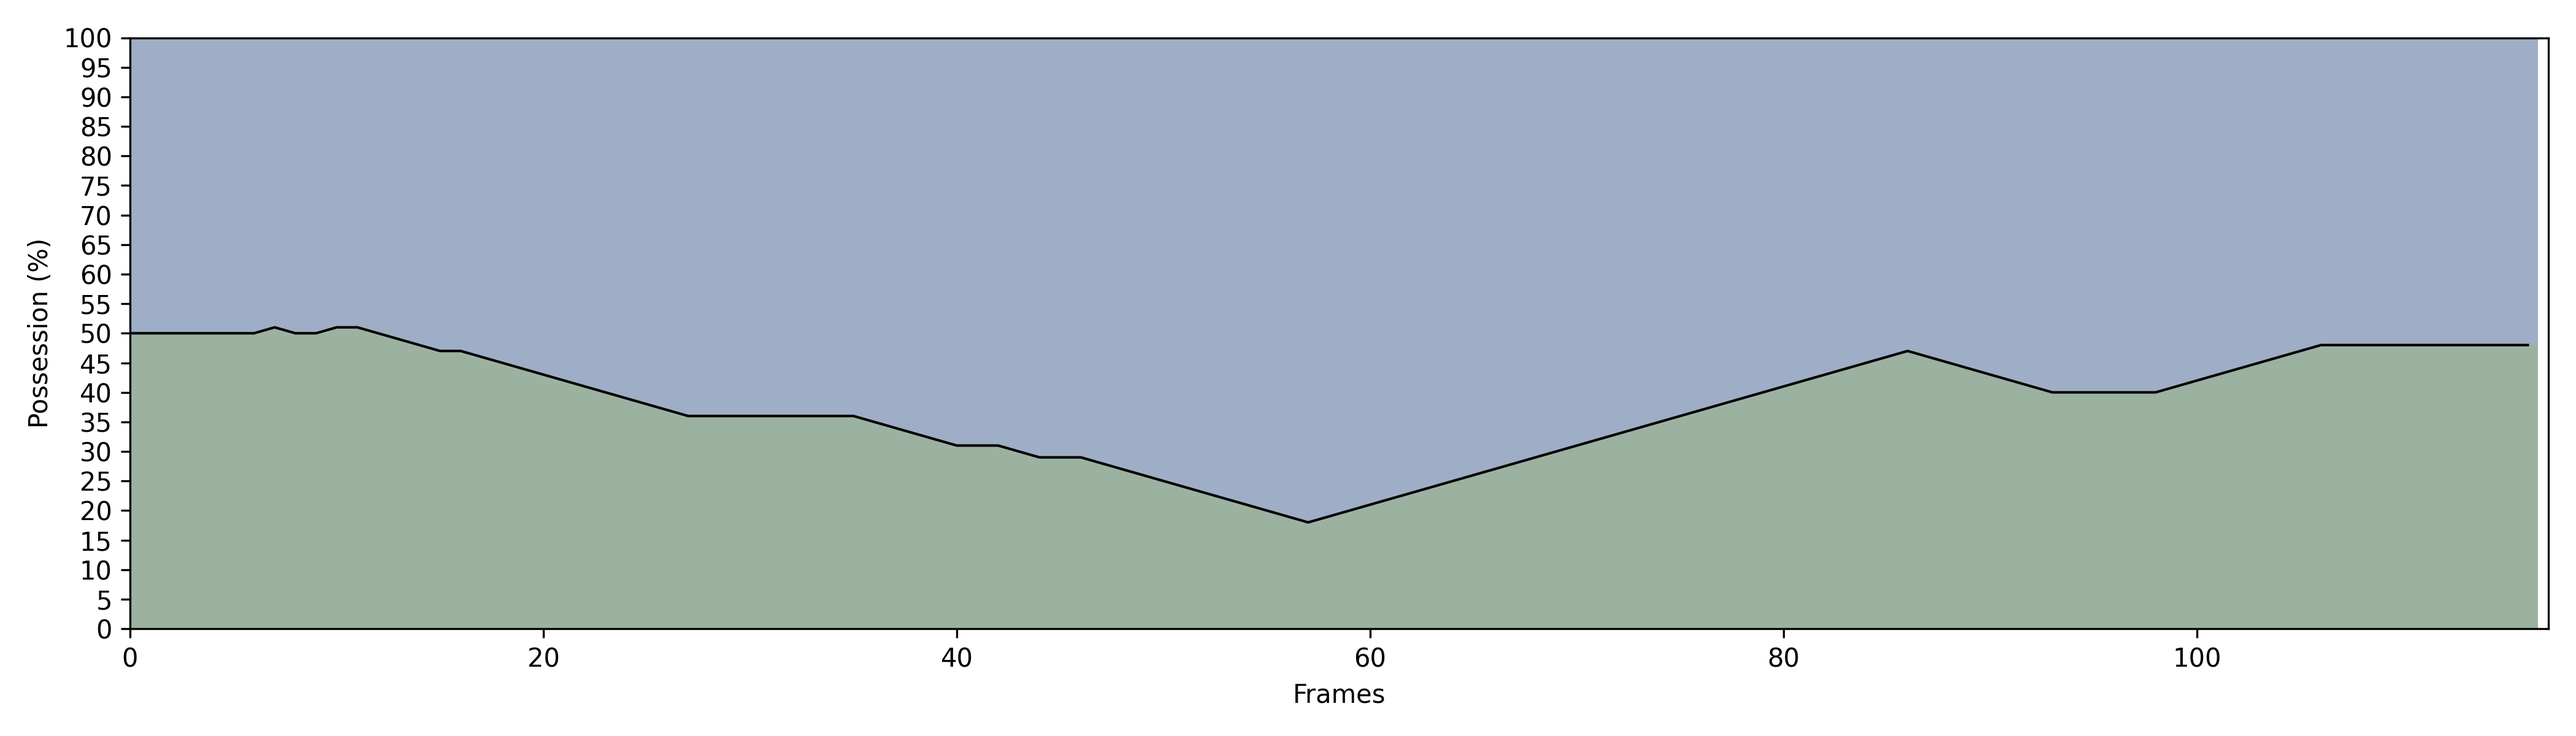
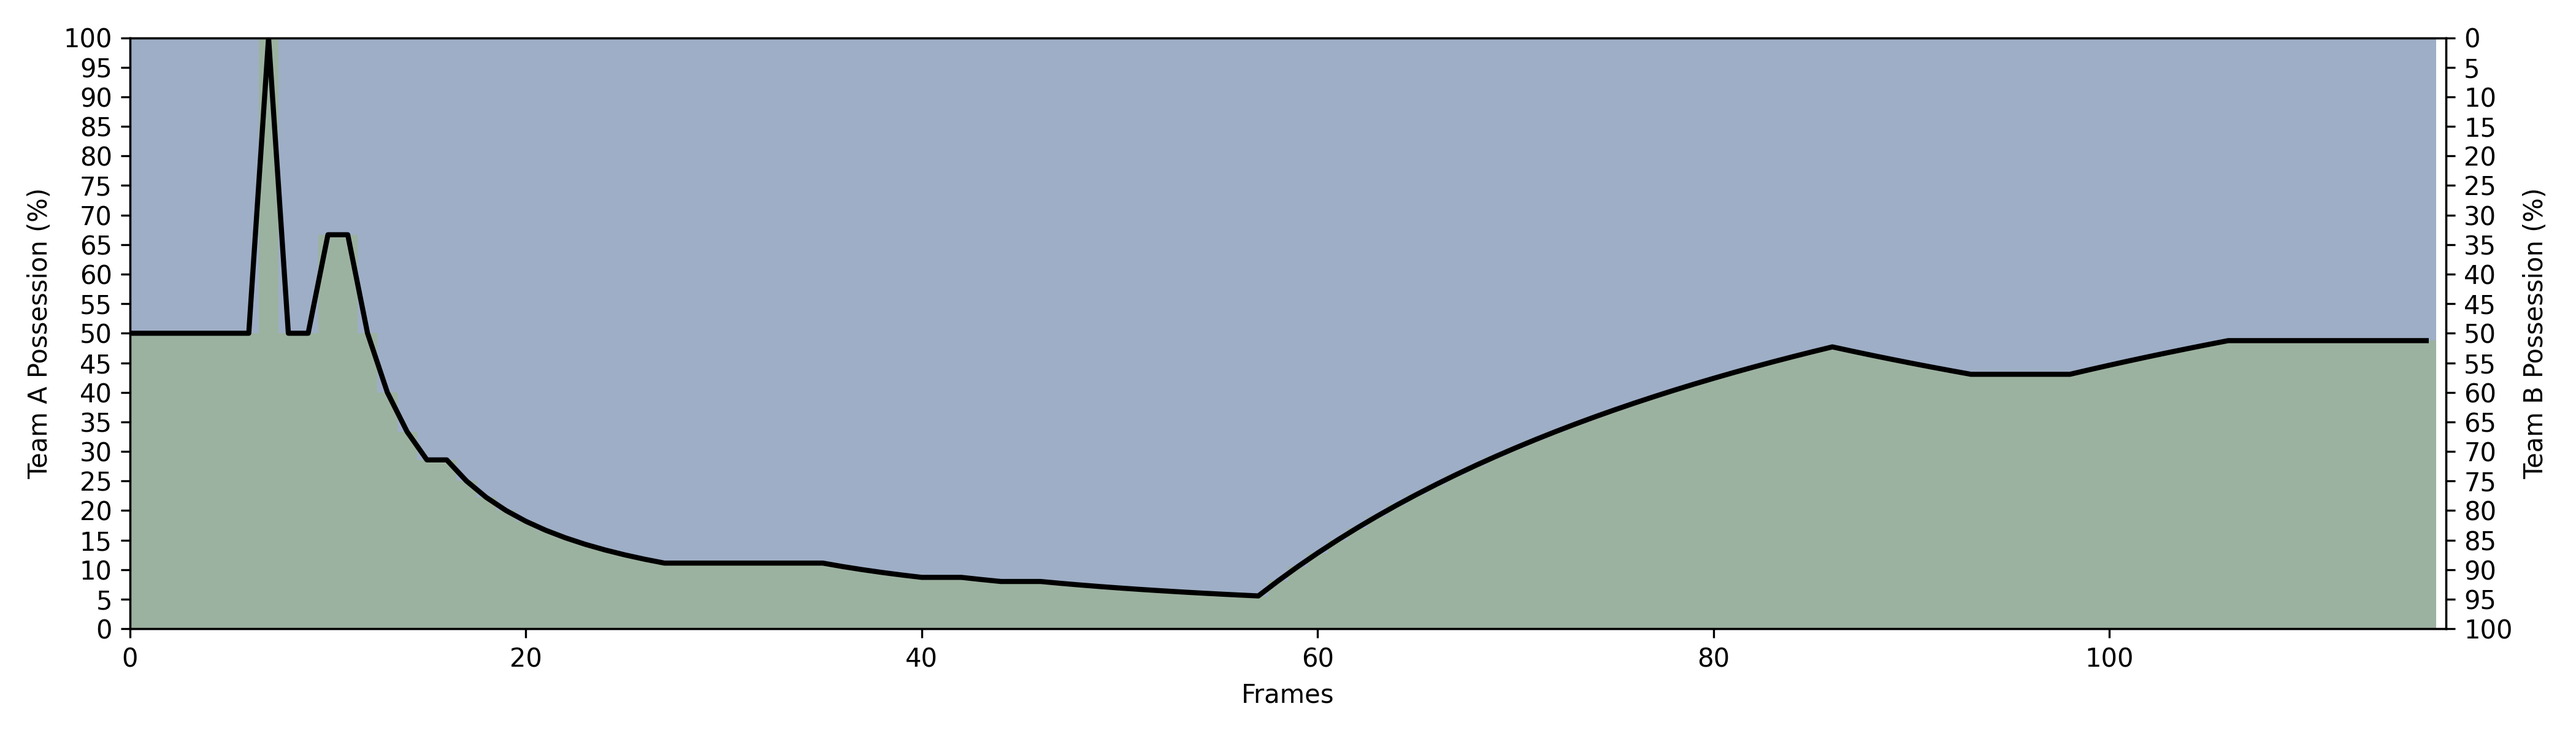
updated plot

diff --git a/process_ui.py b/process_ui.py
@@ -81,19 +81,26 @@ def upload_img(vid_name):
 
 def possession_plot(x, y, video_name):
     y_percent = np.array(y) * 100
-    fig, ax = plt.subplots(figsize=(14, 4))
+
+    fig, ax_left = plt.subplots(figsize=(14, 4))
+    ax_right = ax_left.twinx()
 
     for i, val in enumerate(y_percent):
-        ax.bar(i, val, color="#9cb2a0", width=1.0)
-        ax.bar(i, 100 - val, bottom=val, color="#9eaec6", width=1.0)
+        ax_left.bar(i, val, color="#9cb2a0", width=1.0)
+        ax_left.bar(i, 100 - val, bottom=val, color="#9eaec6", width=1.0)
 
-    ax.plot(x, y_percent, color="black", linewidth=1)
+    ax_left.plot(x, y_percent, color="black", linewidth=2)
 
-    ax.set_ylim(0, 100)
-    ax.set_yticks(np.arange(0, 101, 5))
-    ax.set_xlabel("Frames")
-    ax.set_ylabel("Possession (%)")
-    ax.set_xlim(0, len(x))
+    ax_left.set_ylim(0, 100)
+    ax_left.set_yticks(np.arange(0, 101, 5))
+    ax_left.set_ylabel("Team A Possession (%)")
+
+    ax_right.set_ylim(100, 0)
+    ax_right.set_yticks(np.arange(0, 101, 5))
+    ax_right.set_ylabel("Team B Possession (%)")
+
+    ax_left.set_xlim(0, len(x))
+    ax_left.set_xlabel("Frames")
 
     plt.tight_layout()
 
@@ -108,24 +115,39 @@ def possession_plot(x, y, video_name):
 
     return path
 
-def possession_to_percentages(ball_tp, step=0.01):
+def possession_to_percentages(ball_tp):
+    x = []
     y = []
-    current = 0.5
-    for team in ball_tp:
-        if team == -1 and not y:
-            current = 0.5
-        elif team == 1 and not y:
-            current = 1.0
-        elif team == 2 and not y:
-            current = 0.0
+
+    team1_count = 0
+    team2_count = 0
+    total_possession_frames = 0
+
+    for i, team in enumerate(ball_tp):
+
+        # If no possession, percentage stays the same
+        if team == -1:
+            # Use last known value or 50%
+            if not y:
+                y.append(0.5)
+            else:
+                y.append(y[-1])
         else:
+            # Update counters
             if team == 1:
-                current = min(current + step, 1.0)
+                team1_count += 1
             elif team == 2:
-                current = max(current - step, 0.0)
-        y.append(current)
-    x = list(range(len(y)))
+                team2_count += 1
+
+            total_possession_frames = team1_count + team2_count
+            team1_percentage = team1_count / total_possession_frames
+
+            y.append(team1_percentage)
+
+        x.append(i)
+
     return x, y
+
 
 def open_stats_page(video_name):
     url = f"{STATS_URL}/{video_name}"
